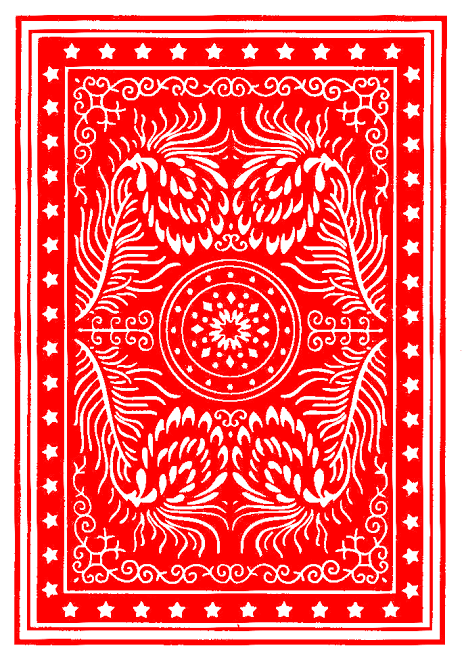
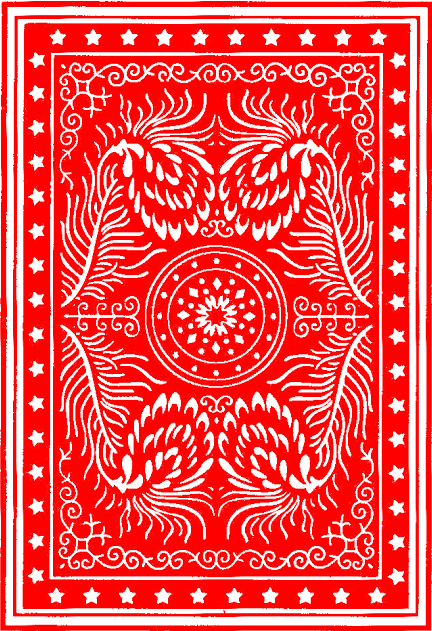
Commit

diff --git a/src/views/Memorama.vue b/src/views/Memorama.vue
@@ -1,6 +1,7 @@
 <template>
   <div style='width:100%;padding-top:2%;'>
-    <div class='main'>
+    <div class='main' style='flex-direction:column;color:white;'>
+      <h1 class='mb-3'>🃏 Memorama de la metodología de prototipos</h1>
       <div class='body'>
         <div
           v-for='(card, i) in cards'
@@ -34,6 +35,7 @@ export default {
   methods: {
     pick(card, i) {
       if (this.block || card.success) return
+      if (this.open && this.open.length && this.open[0].i === i) return
       card.show = true
       this.open.push({ i, card })
       if (this.open.length >= 2) {

diff --git a/src/components/Card.vue b/src/components/Card.vue
@@ -24,7 +24,7 @@ export default {
 .x-card {
   width: 12vh;
   height: 18vh;
-  font-size: 8px;
+  font-size: 45%;
   display: flex;
   box-shadow: 0px 0px 10px 0px rgba(0, 0, 0, 0.75);
   border: 1px solid;
@@ -50,7 +50,7 @@ export default {
 .footer {
   width: 100%;
   height: 100%;
-  background-image: url('/assets/back.png');
+  background-image: url('https://i.imgur.com/nzQQD7h.png');
   background-size: contain;
   background-position: center;
   background-repeat: no-repeat;
